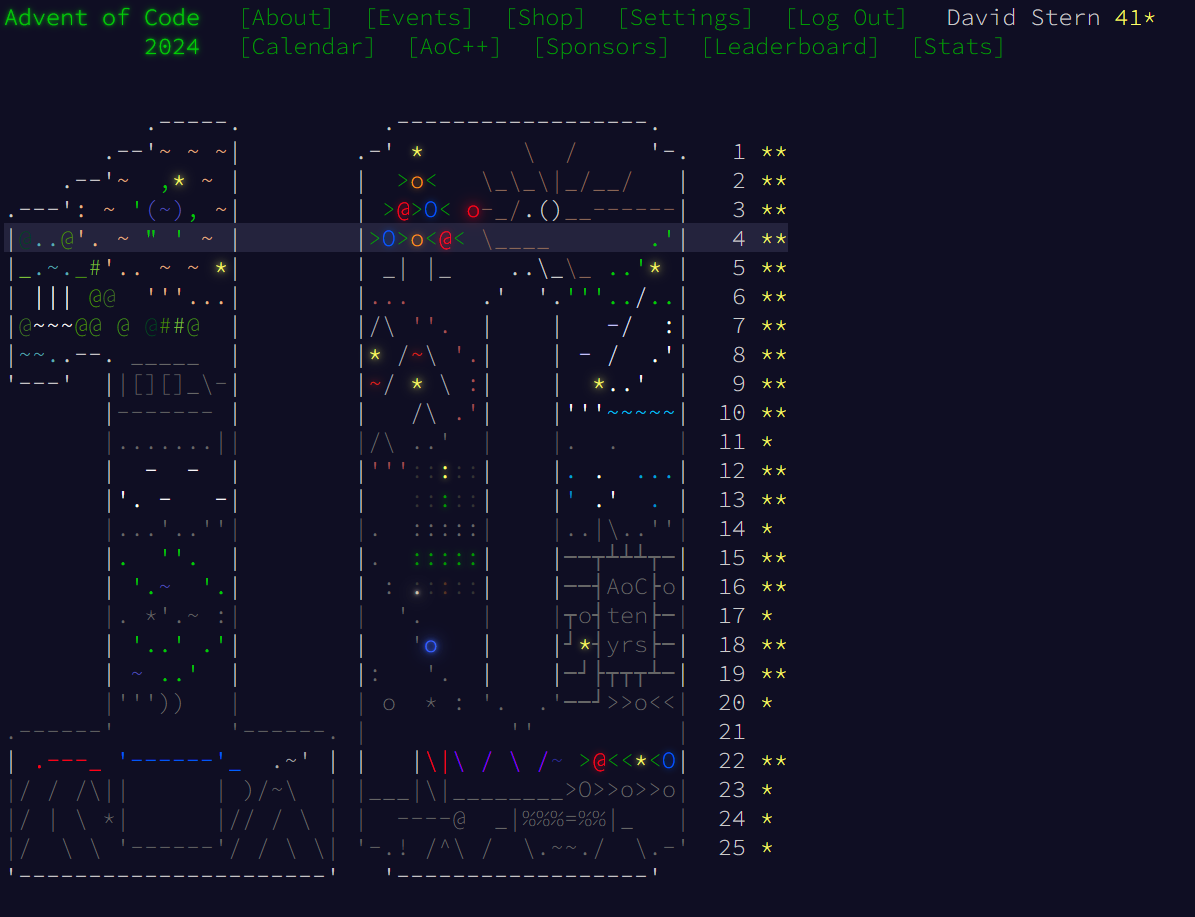
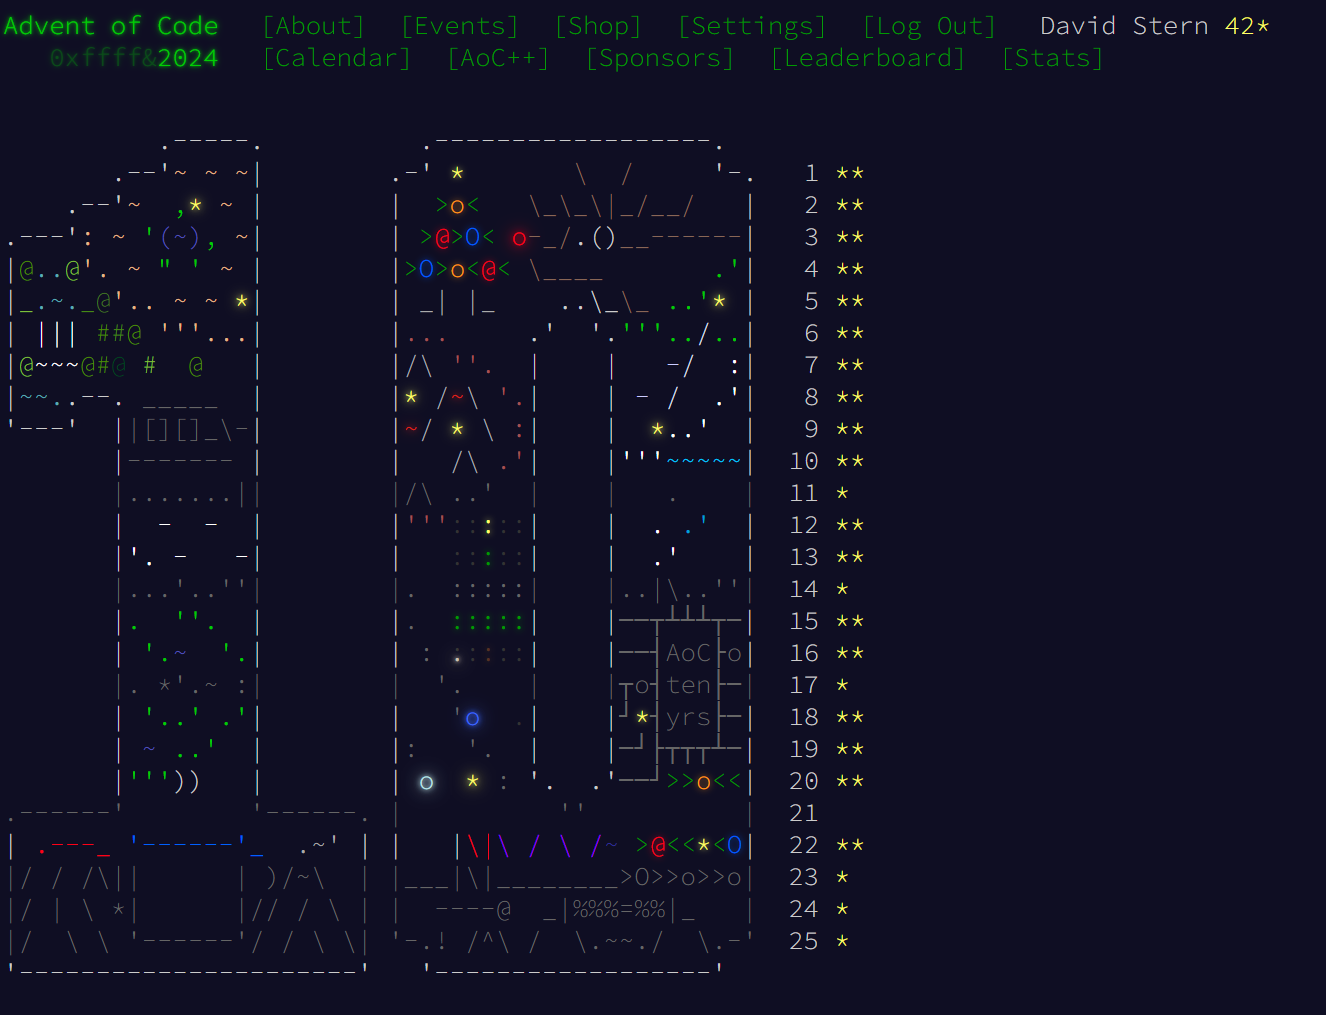
finished Day20 Part2

diff --git a/src/advent_solutions/day20.rs b/src/advent_solutions/day20.rs
@@ -1,4 +1,4 @@
-use std::collections::HashMap;
+use std::collections::{HashMap, HashSet};
 
 use super::{read_input_file, SolveAdvent};
 
@@ -8,6 +8,31 @@ type OrderedPair = (i64, i64);
 
 struct RaceTrack {
     track: Vec<Vec<char>>
+}
+
+fn generate_all_possible_step_combinations(min_steps: i64, max_steps: i64) -> HashSet<OrderedPair> {
+    //!Generate all possible unique combinations of steps starting at position `0,0` that is between
+    //! `min_steps` and `max_steps` in length, inclusive on both ends.
+    let mut step_combinations = HashSet::new();
+    let mut memo = HashSet::new();
+    collect_all_step_combinations((0, 0), max_steps, &mut step_combinations, &mut memo);
+    step_combinations.retain(|(row_step, col_step)| row_step.abs() + col_step.abs() >= min_steps);
+    step_combinations
+}
+
+fn collect_all_step_combinations(current_position: OrderedPair, remaining_steps: i64, unique_step_combos: &mut HashSet<OrderedPair>, memo : &mut HashSet<(OrderedPair, i64)>) {
+    //! Recursively walk all possible step combinations
+    //! The `memo` prevents the runtime from being exponential
+    if remaining_steps < 0 || memo.contains(&(current_position, remaining_steps)) {
+        return;
+    }
+    unique_step_combos.insert(current_position);
+    memo.insert((current_position, remaining_steps));
+    let (current_row, current_col) = current_position;
+    collect_all_step_combinations((current_row + 1, current_col), remaining_steps - 1, unique_step_combos, memo);
+    collect_all_step_combinations((current_row - 1, current_col), remaining_steps - 1, unique_step_combos, memo);
+    collect_all_step_combinations((current_row, current_col + 1), remaining_steps - 1, unique_step_combos, memo);
+    collect_all_step_combinations((current_row, current_col - 1), remaining_steps - 1, unique_step_combos, memo);
 }
 
 impl RaceTrack {
@@ -80,39 +105,41 @@ impl RaceTrack {
     }
 }
 
+fn index_cheat_shortcuts(indexed_racetrack: &HashMap<OrderedPair, usize>, possible_cheat_jumps: &HashSet<OrderedPair>) -> HashMap<i64,usize> {
+    //! Generate a count of all possible unique cheats that save at least 1 picosecond, when compared to the 
+    //! none-cheating variant. 
+    let mut cheat_shortcuts: HashMap<i64, usize> = HashMap::new();
+    //Explore all possible cheats
+    for (track_position, picoseconds) in indexed_racetrack.iter() {
+        //For any given cheat start position, the seconds saved are the distance between 
+        //the seconds it took the non-cheater to get from the old position (before cheating)
+        // to the new position (after cheating) minus the seconds the cheater moved during the cheat.
+        let (row, col) = *track_position;
+        for (row_step, col_step) in possible_cheat_jumps.iter() {
+            let cheat_end_position = (row + row_step, col + col_step);
+            let cheat_jump_distance = row_step.abs() + col_step.abs();
+            if let Some(end_picoseconds) = indexed_racetrack.get(&cheat_end_position) {
+                let cheat_picoseconds_saved = *end_picoseconds  as i64  - *picoseconds as i64 - cheat_jump_distance;
+                if cheat_picoseconds_saved > 0 {
+                    *cheat_shortcuts.entry(cheat_picoseconds_saved).or_default() += 1;
+                }
+        }
+    }
+    }
+    cheat_shortcuts
+}
+
 
 impl SolveAdvent for Day20 {
     fn solve_part1(path_to_file: &str) -> anyhow::Result<()> {
         let input_file = read_input_file(path_to_file)?;
         let racetrack = input_file.lines().map(|line| line.chars().collect::<Vec<_>>()).collect::<Vec<_>>();
-        let racetrack = RaceTrack::new(racetrack);
-        let indexed_racetrack = racetrack.index_racetrack()?;
-        let mut cheat_shortcuts: HashMap<i64, usize> = HashMap::new();
-        //Explore all possible cheats
-        for (track_position, picoseconds) in indexed_racetrack.iter() {
-            //For any given cheat start position, the seconds saved are the distance between 
-            //the seconds it took the non-cheater to get from the old position (before cheating)
-            // to the new position (after cheating) minus the seconds the cheater moved during the cheat.
-            let (row, col) = *track_position;
-            let possible_cheats=  [
-                (row + 1, col + 1),
-                (row - 1, col + 1),
-                (row + 1, col - 1),
-                (row - 1, col - 1),
-                (row + 2, col),
-                (row - 2, col), 
-                (row, col + 2), 
-                (row, col - 2)
-            ];
-            for possible_cheat in possible_cheats {
-                if let Some(cheat_picoseconds) = indexed_racetrack.get(&possible_cheat) {
-                    let cheat_picoseconds_saved = *cheat_picoseconds  as i64  - *picoseconds as i64 - 2;
-                    if cheat_picoseconds_saved > 0 {
-                        *cheat_shortcuts.entry(cheat_picoseconds_saved).or_default() += 1;
-                    }
-                }
-            }
-        }
+        //First, gather statistics on the racetrack without cheating
+        let indexed_racetrack = RaceTrack::new(racetrack).index_racetrack()?;
+        //Allowed cheats must take exactly 2 steps
+        let possible_cheat_jumps=  generate_all_possible_step_combinations(2, 2);
+        //Find all possible cheats that save at least 1 picosecond
+        let cheat_shortcuts = index_cheat_shortcuts(&indexed_racetrack, &possible_cheat_jumps);
         let total_cheats_above_threshold = cheat_shortcuts.into_iter().filter_map(|(picoseconds_saved, count)| {
             if picoseconds_saved >= 100 {
                 return Some(count)
@@ -123,7 +150,22 @@ impl SolveAdvent for Day20 {
         Ok(())
     }
 
-    fn solve_part2(_path_to_file: &str) -> anyhow::Result<()> {
+    fn solve_part2(path_to_file: &str) -> anyhow::Result<()> {
+        //! Exact same solution as `part1`, but allowing cheats of between
+        //! 2 and 20 picoseconds
+        let input_file = read_input_file(path_to_file)?;
+        let racetrack = input_file.lines().map(|line| line.chars().collect::<Vec<_>>()).collect::<Vec<_>>();
+        let indexed_racetrack = RaceTrack::new(racetrack).index_racetrack()?;
+        //Allowed cheats must take between 2 and 20 steps (inclusive on both ends)
+        let possible_cheat_jumps=  generate_all_possible_step_combinations(2, 20);
+        let cheat_shortcuts = index_cheat_shortcuts(&indexed_racetrack, &possible_cheat_jumps);
+        let total_cheats_above_threshold = cheat_shortcuts.into_iter().filter_map(|(picoseconds_saved, count)| {
+            if picoseconds_saved >= 100 {
+                return Some(count)
+            }
+            None
+        }).sum::<usize>();
+        println!("There are {} cheats that save at least 100 picoseconds", total_cheats_above_threshold);
         Ok(())
     }
 }

diff --git a/src/main.rs b/src/main.rs
@@ -4,6 +4,6 @@ use crate::advent_solutions::SolveAdvent;
 
 fn main() -> anyhow::Result<()> {
     Day20::solve_part1("input.txt")?;
-    Day20::solve_part2("test.txt")?;
+    Day20::solve_part2("input.txt")?;
     Ok(())
 }

diff --git a/README.md b/README.md
@@ -1,5 +1,5 @@
 ## Progress Summary
-Just like last year, I am working through the 2024 [Advent of Code](https://adventofcode.com/2024) problems. I currently have `41` stars. Each day's solutions are found in the `/advent_solutions` folder under the day in question. As requested by the creator of the problems, I do not provide the input text, only the code solutions. To run a certain solution, ensure that the correct input text is placed in an `input.txt` file. Just like last year, solutions implement the following trait: 
+Just like last year, I am working through the 2024 [Advent of Code](https://adventofcode.com/2024) problems. I currently have `42` stars. Each day's solutions are found in the `/advent_solutions` folder under the day in question. As requested by the creator of the problems, I do not provide the input text, only the code solutions. To run a certain solution, ensure that the correct input text is placed in an `input.txt` file. Just like last year, solutions implement the following trait: 
 ```rust
 pub trait SolveAdvent {
     ///How to solve part1 of the days puzzle.
